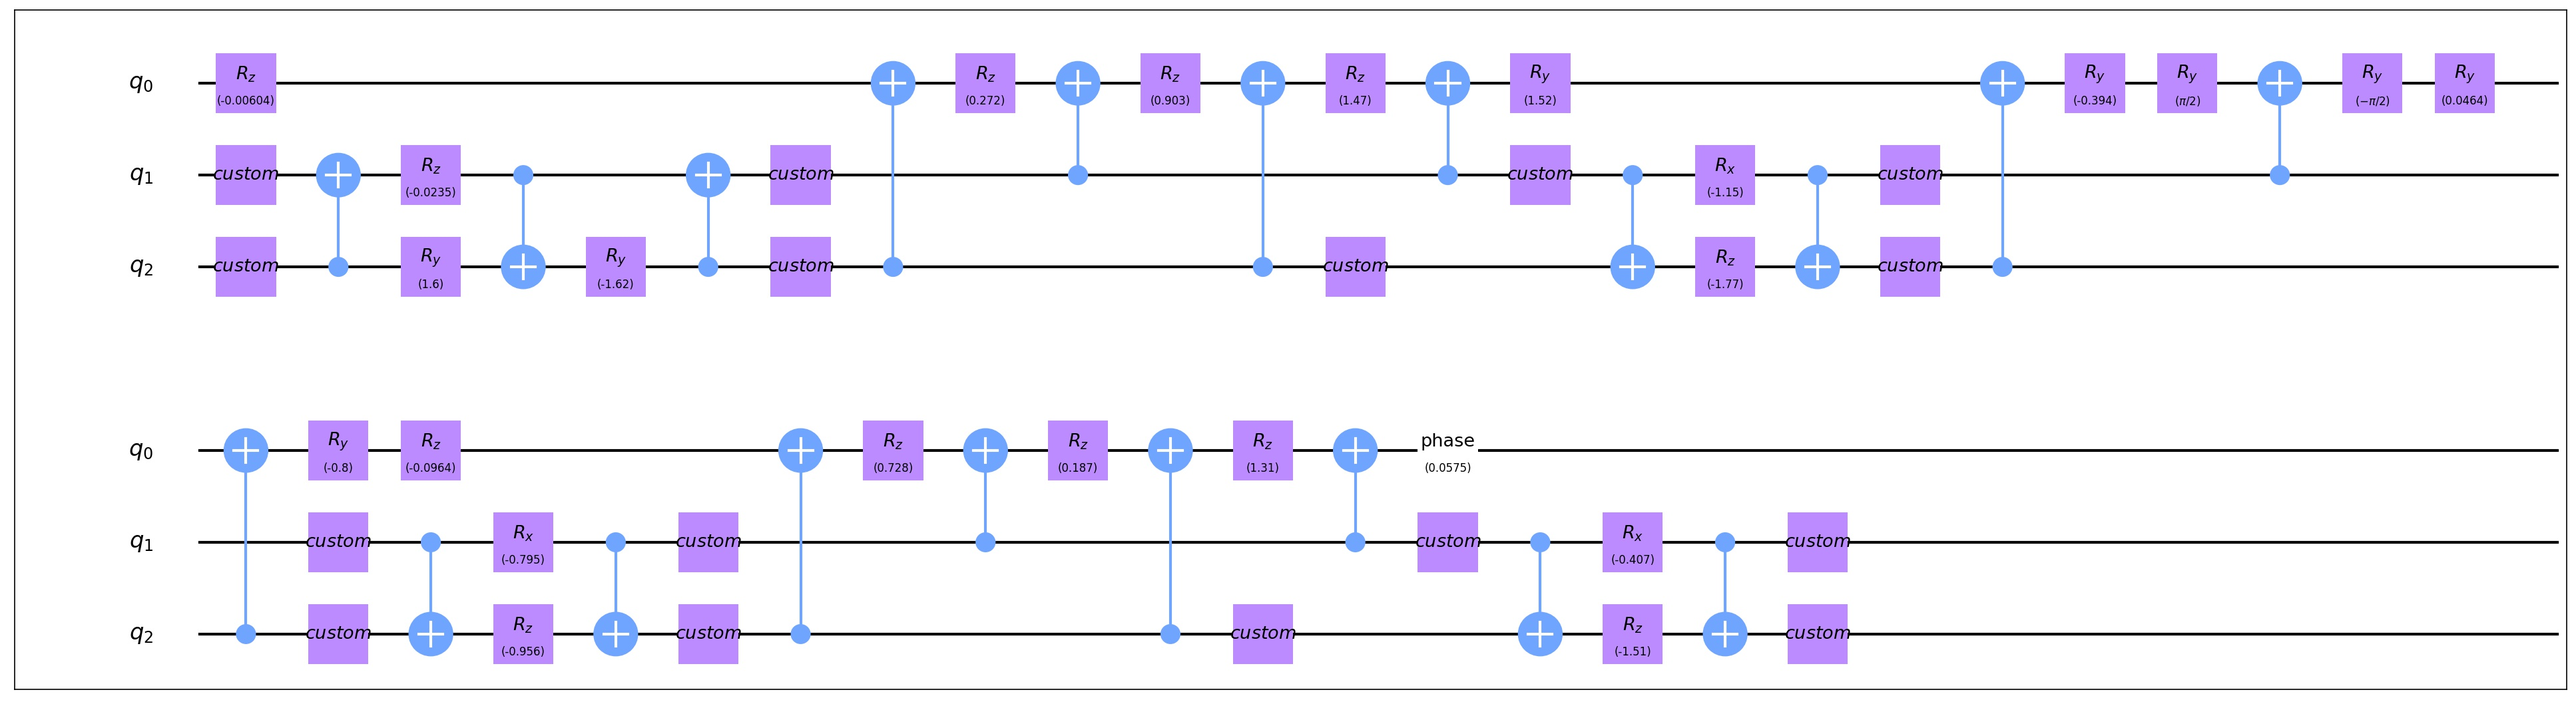
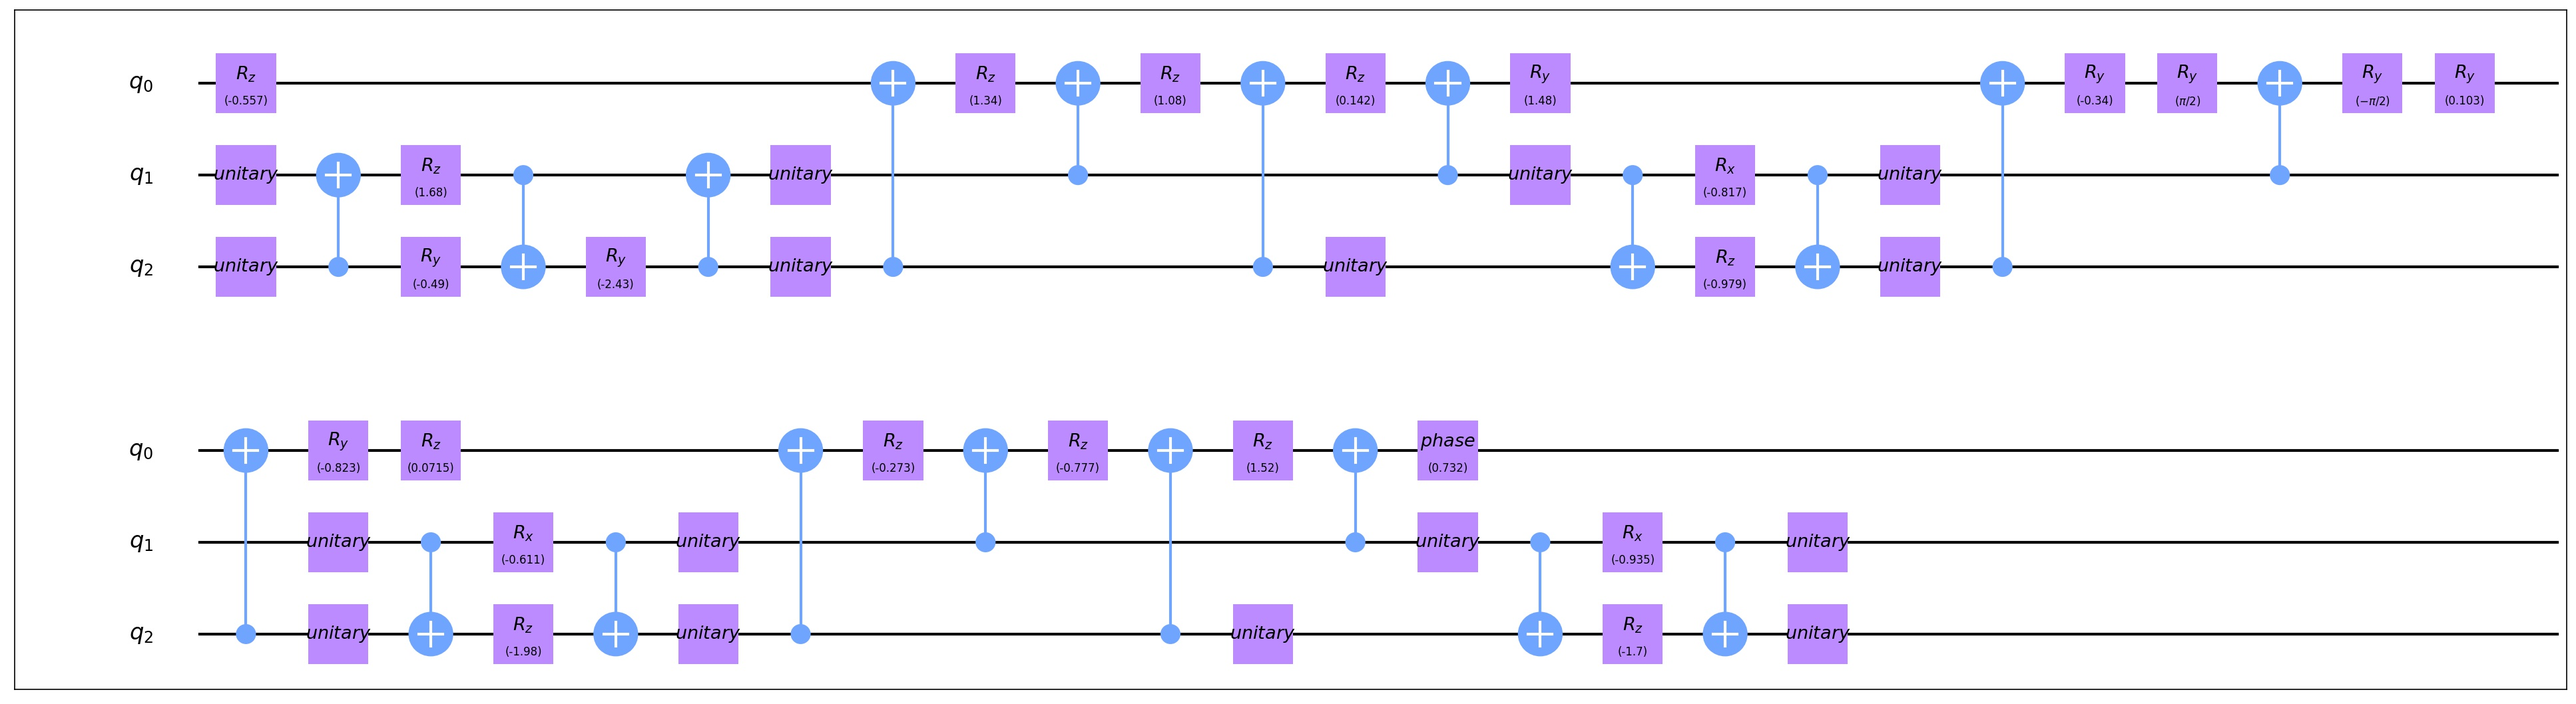
drawer modified for unitary and phase gates

diff --git a/QuICT/tools/drawer/ibmq_style.py b/QuICT/tools/drawer/ibmq_style.py
@@ -55,6 +55,8 @@ class DefaultStyle:
             'reset': '\\left|0\\right\\rangle',
             'barrier' : 'barrier',
             'Permutation gate' : 'perm',
+            'Unitary gate': 'unitary',
+            'phase': 'phase',
             'Custom gate' : 'custom'
         }
         self.dispcol = {
@@ -82,6 +84,8 @@ class DefaultStyle:
             'multi': other_color,
             'meas': non_gate_color,
             'Permutation gate' : other_color,
+            'Unitary gate' : other_color,
+            'phase' : other_color,
             'Custom gate' : other_color
         }
         self.latexmode = False

diff --git a/QuICT/core/gate/gate.py b/QuICT/core/gate/gate.py
@@ -2486,7 +2486,7 @@ class UnitaryGate(BasicGate):
         return gate
 
     def __str__(self):
-        return "Custom gate"
+        return "Unitary gate"
 
     def inverse(self):
         _unitary = UnitaryGate()
